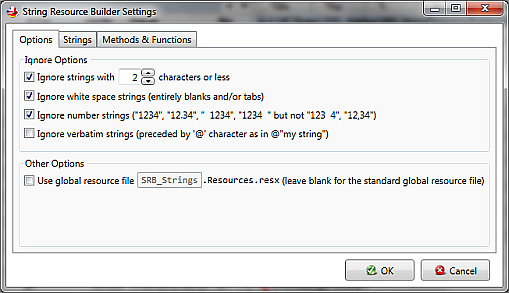
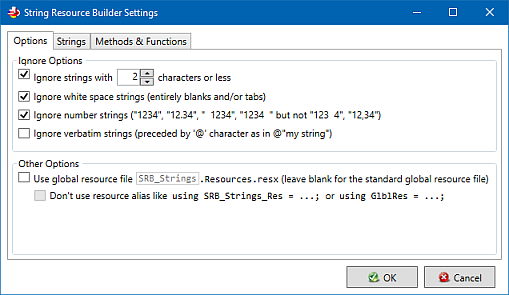
V1.6.1.22 - Documentation

Changed region(s): [[0.0, 0.0, 1.0, 1.0]]

diff --git a/docs/Settings.md b/docs/Settings.md
@@ -6,6 +6,7 @@ There are some settings for reducing the amount of string literals to be found:
 1. "**Ignore number strings**": string literals containing nothing but leading/trailing white space characters and numbers (also decimal numbers) will not be listed.
 1. "**Ignore verbatim strings**": verbatim string literals (preceded by `@` character, C#) will not be listed.
 1. "**Use global resource file `SRB_Strings.Resources.resx`**": all string resources will be stored into the resource file with the given name (no name for the standard global resource file) placed into the `Properties` directory (`My Project` for VB) of the project or if not available in the project root.
+1. "**Don't use resource aliaslike using SRB_Strings_Res = ...; or using GlbRes = ...;"
 1. "**Ignore these Strings**": string literals found in this list (**exact match**) will not be listed.
 1. "**Ignore Strings containing these strings**": string literals containing one of the the given sub-strings will not be listed.
 1. "**Ignore these Methods or Functions**": string literals within the given methods or functions (at the moment the names are class-independent, may be subject to change by preceding the class name) will not be listed.

diff --git a/docs/RevisionHistory.md b/docs/RevisionHistory.md
@@ -1,5 +1,17 @@
 # Revision History
 
+### V1.6 R1 (22) [2017-06-30]
+
+* **Fixed:** Issue with expression bodied properties no longer being parsed.
+* **Fixed:** Missing standard resources for Help/About dialog of Visual Studio.
+* **New:** Provide revision history as release notes in "Extensions and Updates".
+* **New:** Option not to use the resource class using alias for global resources.  Thanks to **isaksavo**.
+
+### V1.5 R3 (21) [2017-05-21]
+
+* **Fixed:** Crash when parsing expression bodied properties due to a bug seen in VS2017 V15.2 (26430.6 +/-). But now, these property getters are ignored as long as the EnvDTE is not fixed to give proper start and end points.
+* **Changed:** NuGet to use project.json.
+
 ### V1.5 R2 (20) [2016-12-10]
 
 * **Changed:** Manifest changed to support only VS2015 and later from now on.

diff --git a/docs/Prerequisites.md b/docs/Prerequisites.md
@@ -3,7 +3,7 @@
 Fellow developers or those who are just curious surly want to know what is needed to compile the presented project on their own machines.  This is what I used:
 
 1. Visual Studio 2017 Enterprise (Professional will suffice)
-1. For the project to build a IBR_CodeSigning.pfx certificate is needed within the project directory (not pushed to GitHub).
+1. For the project to build a DanielRuehmer_CodeSign.pfx certificate is needed within the project directory (not pushed to GitHub).
 
 ### Before V1.5 R1 (19) [2016-02-27]
 

diff --git a/docs/History.md b/docs/History.md
@@ -22,7 +22,7 @@ In January 2017 I reached the 3000th download and four additional reviews, now o
 
 It's pretty quiet regarding my private projects at the moment. :)
 
-I just moved from CodePlex to GitHub because it will be closed down for active contributions in 2017.
+I just moved from CodePlex to GitHub because it will be closed down for active contributions end of 2017.
 
 ## Obstacles
 
